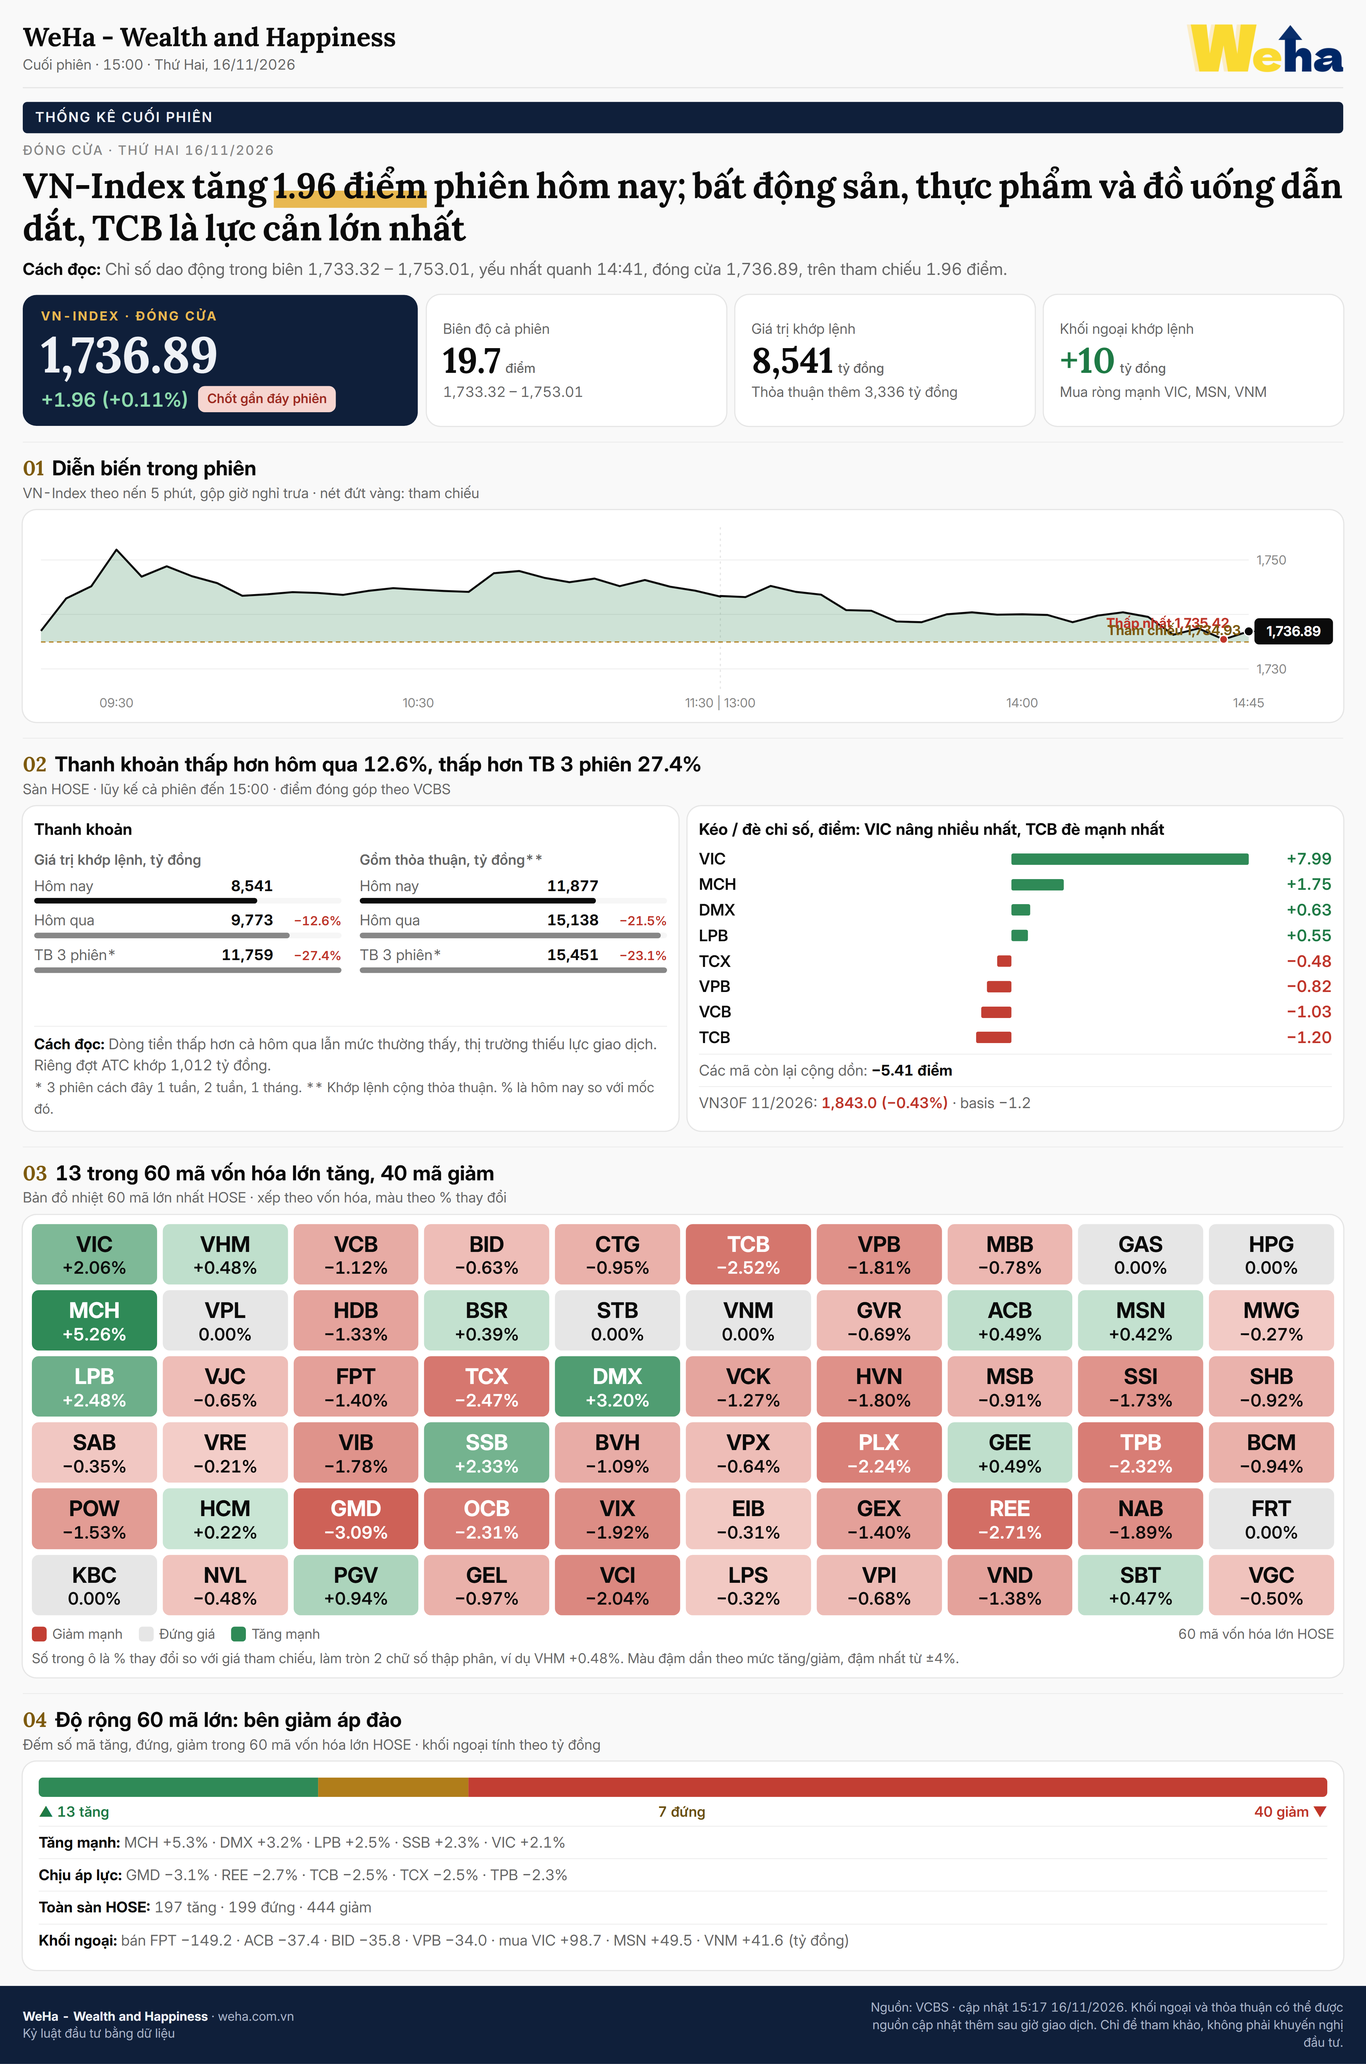
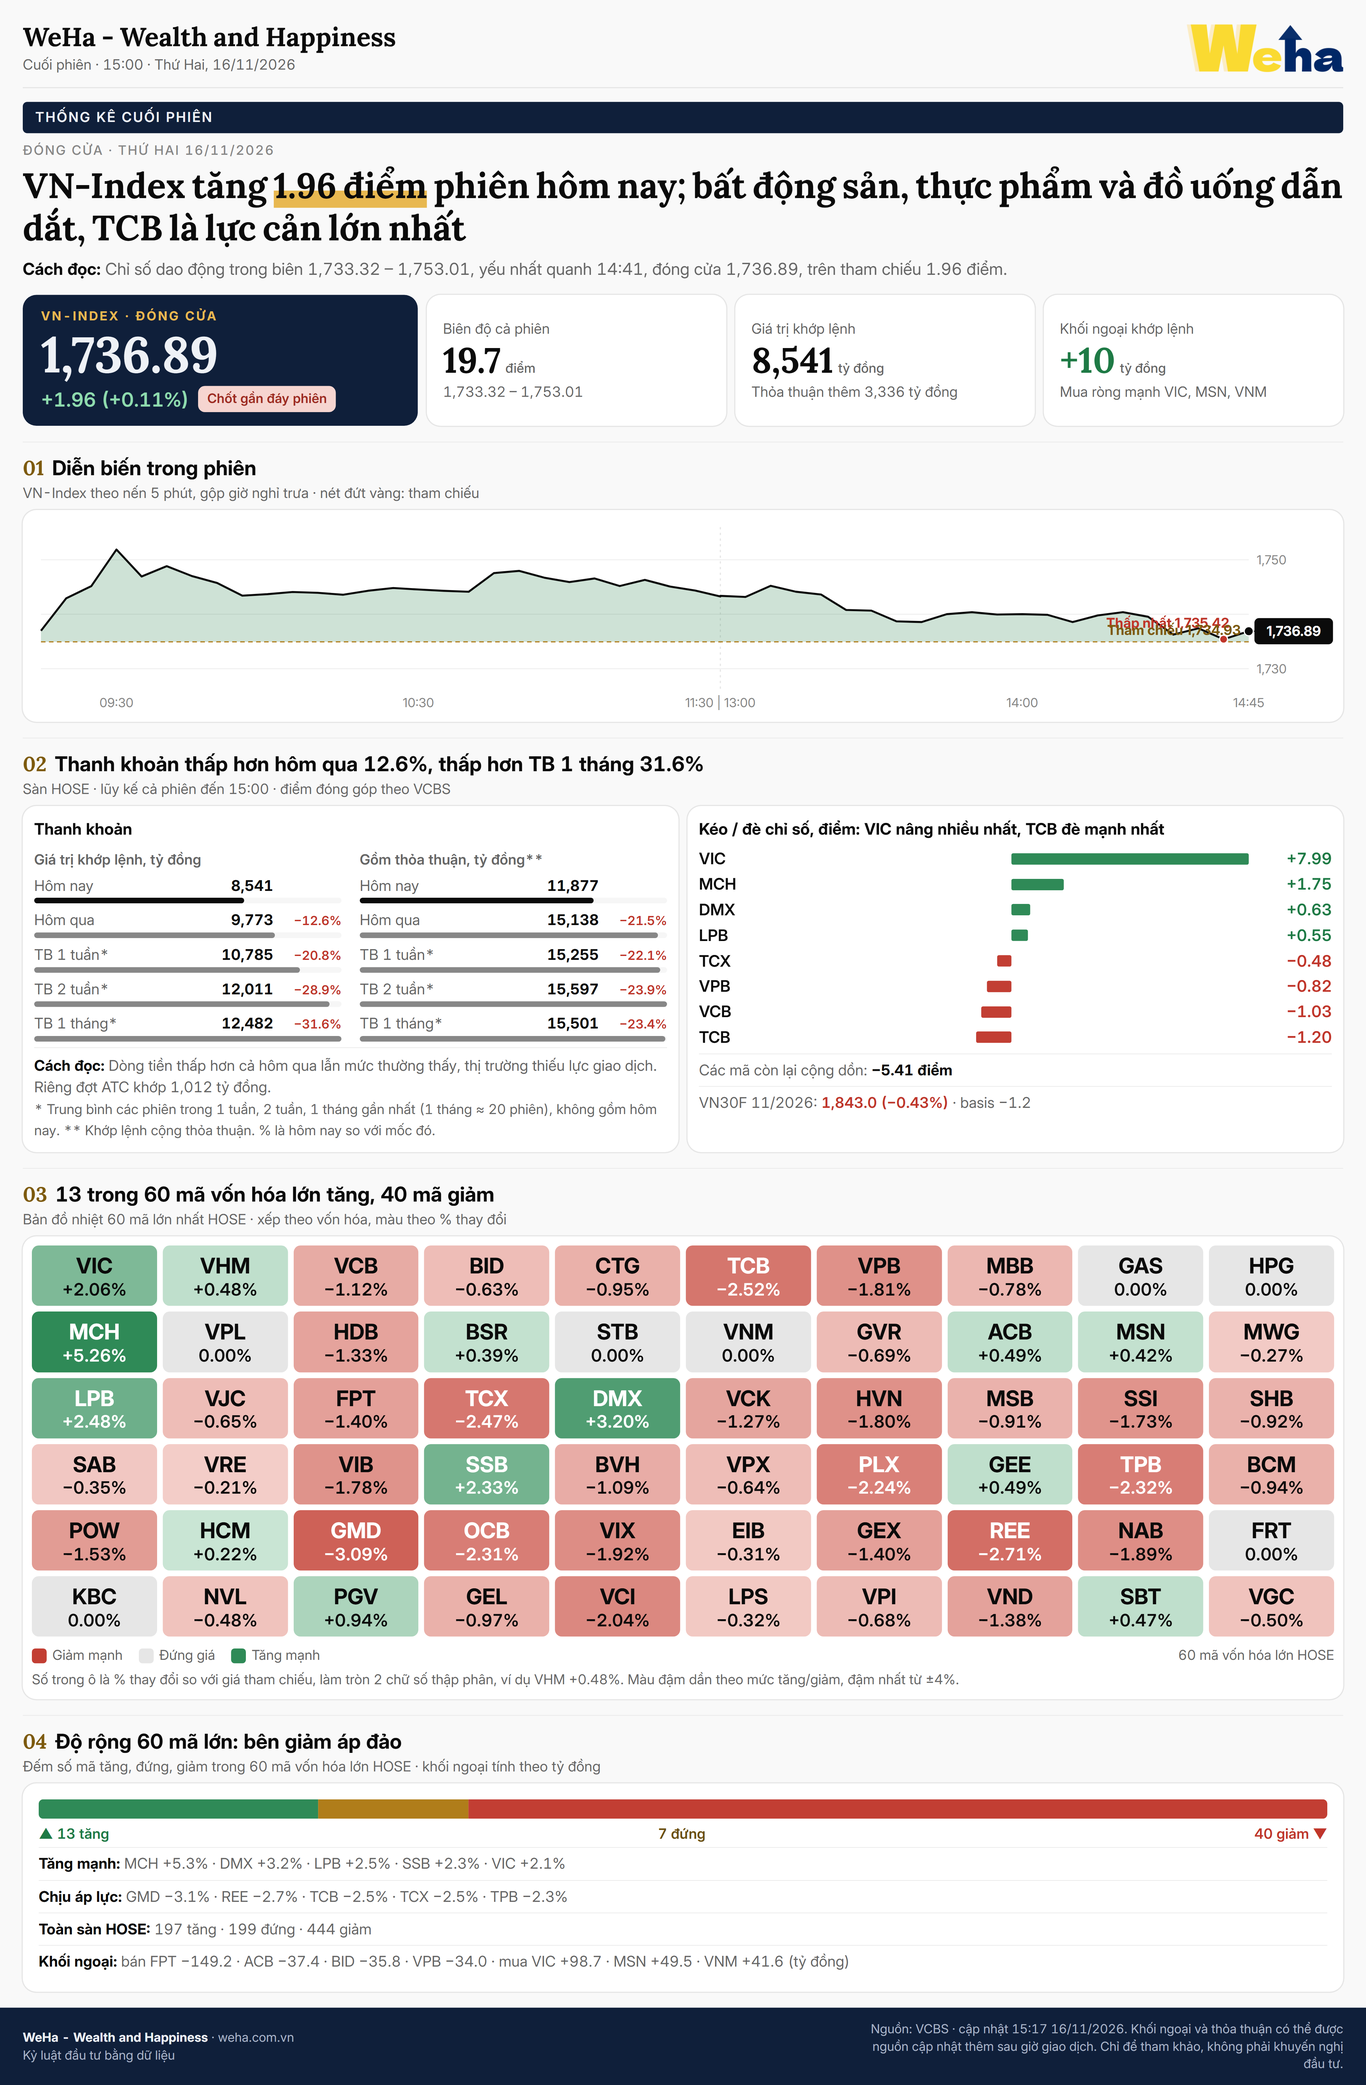
Thống kê giữa/cuối phiên: thay TB 3 phiên bằng TB 1 tuần, 2 tuần, 1 tháng
Ba mốc week1/week2/month của VCBS là trung bình các phiên trong 1 tuần,
2 tuần, 1 tháng gần nhất (không gồm hôm nay), không phải 3 phiên lẻ.
Đối chiếu 18/11: week1 = TB 12-17/11, week2 = TB 05-17/11.
Tiêu đề thanh khoản so với TB 1 tháng (~20 phiên).

diff --git a/thong-ke-cuoi-phien/2026-11-16/index.html b/thong-ke-cuoi-phien/2026-11-16/index.html
@@ -135,9 +135,9 @@ svg{display:block}
 <text x="2217.0" y="204.9" text-anchor="middle" class="lab" fill="#fff">1,736.89</text>
 <text x="2124" y="203.6" text-anchor="end" class="lab" fill="var(--gold-strong)">Tham chiếu 1,734.93</text>
 <text x="148.6" y="330" text-anchor="middle" class="ax">09:30</text><text x="679.1" y="330" text-anchor="middle" class="ax">10:30</text><text x="1209.6" y="330" text-anchor="middle" class="ax">11:30 | 13:00</text><text x="1740.1" y="330" text-anchor="middle" class="ax">14:00</text><text x="2138.0" y="330" text-anchor="middle" class="ax">14:45</text></svg></div>
-<h2 class="sh"><em>02</em>Thanh khoản thấp hơn hôm qua 12.6%, thấp hơn TB 3 phiên 27.4%</h2><p class="sub">Sàn HOSE · lũy kế cả phiên đến 15:00 · điểm đóng góp theo VCBS</p>
-<section class="two"><div class="card liq2"><div class="ct">Thanh khoản</div><div class="lrs"><div class="lr"><div class="ct2">Giá trị khớp lệnh, tỷ đồng</div><div class="cmp"><span class="cl">Hôm nay</span><span class="cv">8,541</span><span class="cc"></span><span class="cb"><i style="width:72.6%;background:var(--ink)"></i></span></div><div class="cmp"><span class="cl">Hôm qua</span><span class="cv">9,773</span><span class="cc"><span class="chg down">−12.6%</span></span><span class="cb"><i style="width:83.1%;background:var(--s4)"></i></span></div><div class="cmp"><span class="cl">TB 3 phiên*</span><span class="cv">11,759</span><span class="cc"><span class="chg down">−27.4%</span></span><span class="cb"><i style="width:100.0%;background:var(--s4)"></i></span></div></div><div class="lr"><div class="ct2">Gồm thỏa thuận, tỷ đồng**</div><div class="cmp"><span class="cl">Hôm nay</span><span class="cv">11,877</span><span class="cc"></span><span class="cb"><i style="width:76.9%;background:var(--ink)"></i></span></div><div class="cmp"><span class="cl">Hôm qua</span><span class="cv">15,138</span><span class="cc"><span class="chg down">−21.5%</span></span><span class="cb"><i style="width:98.0%;background:var(--s4)"></i></span></div><div class="cmp"><span class="cl">TB 3 phiên*</span><span class="cv">15,451</span><span class="cc"><span class="chg down">−23.1%</span></span><span class="cb"><i style="width:100.0%;background:var(--s4)"></i></span></div></div></div>
-<div class="how-to-read"><b>Cách đọc:</b> Dòng tiền thấp hơn cả hôm qua lẫn mức thường thấy, thị trường thiếu lực giao dịch. Riêng đợt ATC khớp 1,012 tỷ đồng.<br><span class="fn">* 3 phiên cách đây 1 tuần, 2 tuần, 1 tháng. ** Khớp lệnh cộng thỏa thuận. % là hôm nay so với mốc đó.</span></div></div>
+<h2 class="sh"><em>02</em>Thanh khoản thấp hơn hôm qua 12.6%, thấp hơn TB 1 tháng 31.6%</h2><p class="sub">Sàn HOSE · lũy kế cả phiên đến 15:00 · điểm đóng góp theo VCBS</p>
+<section class="two"><div class="card liq2"><div class="ct">Thanh khoản</div><div class="lrs"><div class="lr"><div class="ct2">Giá trị khớp lệnh, tỷ đồng</div><div class="cmp"><span class="cl">Hôm nay</span><span class="cv">8,541</span><span class="cc"></span><span class="cb"><i style="width:68.4%;background:var(--ink)"></i></span></div><div class="cmp"><span class="cl">Hôm qua</span><span class="cv">9,773</span><span class="cc"><span class="chg down">−12.6%</span></span><span class="cb"><i style="width:78.3%;background:var(--s4)"></i></span></div><div class="cmp"><span class="cl">TB 1 tuần*</span><span class="cv">10,785</span><span class="cc"><span class="chg down">−20.8%</span></span><span class="cb"><i style="width:86.4%;background:var(--s4)"></i></span></div><div class="cmp"><span class="cl">TB 2 tuần*</span><span class="cv">12,011</span><span class="cc"><span class="chg down">−28.9%</span></span><span class="cb"><i style="width:96.2%;background:var(--s4)"></i></span></div><div class="cmp"><span class="cl">TB 1 tháng*</span><span class="cv">12,482</span><span class="cc"><span class="chg down">−31.6%</span></span><span class="cb"><i style="width:100.0%;background:var(--s4)"></i></span></div></div><div class="lr"><div class="ct2">Gồm thỏa thuận, tỷ đồng**</div><div class="cmp"><span class="cl">Hôm nay</span><span class="cv">11,877</span><span class="cc"></span><span class="cb"><i style="width:76.1%;background:var(--ink)"></i></span></div><div class="cmp"><span class="cl">Hôm qua</span><span class="cv">15,138</span><span class="cc"><span class="chg down">−21.5%</span></span><span class="cb"><i style="width:97.1%;background:var(--s4)"></i></span></div><div class="cmp"><span class="cl">TB 1 tuần*</span><span class="cv">15,255</span><span class="cc"><span class="chg down">−22.1%</span></span><span class="cb"><i style="width:97.8%;background:var(--s4)"></i></span></div><div class="cmp"><span class="cl">TB 2 tuần*</span><span class="cv">15,597</span><span class="cc"><span class="chg down">−23.9%</span></span><span class="cb"><i style="width:100.0%;background:var(--s4)"></i></span></div><div class="cmp"><span class="cl">TB 1 tháng*</span><span class="cv">15,501</span><span class="cc"><span class="chg down">−23.4%</span></span><span class="cb"><i style="width:99.4%;background:var(--s4)"></i></span></div></div></div>
+<div class="how-to-read"><b>Cách đọc:</b> Dòng tiền thấp hơn cả hôm qua lẫn mức thường thấy, thị trường thiếu lực giao dịch. Riêng đợt ATC khớp 1,012 tỷ đồng.<br><span class="fn">* Trung bình các phiên trong 1 tuần, 2 tuần, 1 tháng gần nhất (1 tháng ≈ 20 phiên), không gồm hôm nay. ** Khớp lệnh cộng thỏa thuận. % là hôm nay so với mốc đó.</span></div></div>
 <div class="card"><div class="ct">Kéo / đè chỉ số, điểm: VIC nâng nhiều nhất, TCB đè mạnh nhất</div><div class="ctr"><span class="sy">VIC</span><span class="tr"><i style="left:50%;width:46.0%;background:var(--up-bar)"></i></span><span class="chg up nv">+7.99</span></div><div class="ctr"><span class="sy">MCH</span><span class="tr"><i style="left:50%;width:10.1%;background:var(--up-bar)"></i></span><span class="chg up nv">+1.75</span></div><div class="ctr"><span class="sy">DMX</span><span class="tr"><i style="left:50%;width:3.6%;background:var(--up-bar)"></i></span><span class="chg up nv">+0.63</span></div><div class="ctr"><span class="sy">LPB</span><span class="tr"><i style="left:50%;width:3.2%;background:var(--up-bar)"></i></span><span class="chg up nv">+0.55</span></div><div class="ctr"><span class="sy">TCX</span><span class="tr"><i style="right:50%;width:2.8%;background:var(--down-bar)"></i></span><span class="chg down nv">−0.48</span></div><div class="ctr"><span class="sy">VPB</span><span class="tr"><i style="right:50%;width:4.7%;background:var(--down-bar)"></i></span><span class="chg down nv">−0.82</span></div><div class="ctr"><span class="sy">VCB</span><span class="tr"><i style="right:50%;width:5.9%;background:var(--down-bar)"></i></span><span class="chg down nv">−1.03</span></div><div class="ctr"><span class="sy">TCB</span><span class="tr"><i style="right:50%;width:6.9%;background:var(--down-bar)"></i></span><span class="chg down nv">−1.20</span></div>
 <p class="ln rest">Các mã còn lại cộng dồn: <b>−5.41 điểm</b></p>
 <p class="ln">VN30F 11/2026: <b class="chg down">1,843.0 (−0.43%)</b> · basis −1.2</p></div></section>

diff --git a/thong-ke-giua-phien/build.py b/thong-ke-giua-phien/build.py
@@ -278,7 +278,7 @@ def render(day):
     dow = ["Thứ Hai", "Thứ Ba", "Thứ Tư", "Thứ Năm", "Thứ Sáu", "Thứ Bảy", "Chủ Nhật"][d.weekday()]
     dstr = d.strftime("%d/%m/%Y")
     cur, prev = liq["curr"][-1], liq["prev"][-1]
-    avg3 = (liq["week1"][-1] + liq["week2"][-1] + liq["month"][-1]) / 3
+    avg3 = liq["month"][-1]  # VCBS monthVal: TB các phiên trong 1 tháng gần nhất (~20 phiên), cùng giờ
     kl, klp, kl5, kl20, n20 = morning(data, day)
     vals = [pct(q, s) for g in uni.values() for s in g]
     up, dn = sum(v > 0 for v in vals), sum(v < 0 for v in vals)
@@ -310,10 +310,10 @@ def render(day):
     def word(x):
         return "cao hơn" if x > 0 else "thấp hơn"
 
-    liq_title = f'Thanh khoản {word(vs_p)} hôm qua {vn(abs(vs_p),1)}%, {word(vs_a)} TB 3 phiên {vn(abs(vs_a),1)}%'
+    liq_title = f'Thanh khoản {word(vs_p)} hôm qua {vn(abs(vs_p),1)}%, {word(vs_a)} TB 1 tháng {vn(abs(vs_a),1)}%'
     if vs_p > 0 and vs_a < 0 and kl > kl20:
         liq_read = (f"Dòng tiền ấm lên so với hôm qua. Khối lượng vượt TB {n20} phiên nhưng giá trị khớp lệnh vẫn dưới "
-                    "3 phiên đối chiếu, nên chưa phải tín hiệu bùng nổ; cần phiên chiều xác nhận.")
+                    "mức trung bình 1 tháng, nên chưa phải tín hiệu bùng nổ; cần phiên chiều xác nhận.")
     elif vs_p > 0 and vs_a < 0:
         liq_read = "Dòng tiền đã cải thiện so với hôm qua nhưng chưa vượt mức thường thấy, cần theo dõi thêm phiên chiều."
     elif vs_p > 0:
@@ -347,8 +347,8 @@ def render(day):
 <h2 class="sh"><em>01</em>Diễn biến trong phiên</h2><p class="sub">VN-Index theo nến 5 phút · nét đứt: tham chiếu</p>
 <div class="card">{price_chart(data)}</div>
 <h2 class="sh"><em>02</em>{liq_title}</h2><p class="sub">Sàn HOSE · so sánh cùng thời điểm {data["time"]} · điểm đóng góp theo VCBS</p>
-<section class="two"><div class="card liq2"><div class="ct">Thanh khoản</div><div class="lrs"><div class="lr"><div class="ct2">Giá trị khớp lệnh, tỷ đồng</div>{cmp_rows([("Hôm nay", cur, None), ("Hôm qua", prev, vs_p), ("TB 3 phiên*", avg3, vs_a)])}</div><div class="lr"><div class="ct2">KL phiên sáng, triệu cp**</div>{cmp_rows([("Hôm nay", kl, None), ("Hôm qua", klp, (kl/klp-1)*100), ("TB 5 phiên", kl5, (kl/kl5-1)*100), (f"TB {n20} phiên", kl20, (kl/kl20-1)*100)])}</div></div>
-<div class="how-to-read"><b>Cách đọc:</b> {liq_read}<br><span class="fn">* Cùng giờ của 3 phiên cách đây 1 tuần, 2 tuần, 1 tháng. ** Gồm thỏa thuận. % là hôm nay so với mốc đó.</span></div></div>
+<section class="two"><div class="card liq2"><div class="ct">Thanh khoản</div><div class="lrs"><div class="lr"><div class="ct2">Giá trị khớp lệnh, tỷ đồng</div>{cmp_rows([("Hôm nay", cur, None), ("Hôm qua", prev, vs_p), ("TB 1 tuần*", liq["week1"][-1], (cur/liq["week1"][-1]-1)*100), ("TB 2 tuần*", liq["week2"][-1], (cur/liq["week2"][-1]-1)*100), ("TB 1 tháng*", avg3, vs_a)])}</div><div class="lr"><div class="ct2">KL phiên sáng, triệu cp**</div>{cmp_rows([("Hôm nay", kl, None), ("Hôm qua", klp, (kl/klp-1)*100), ("TB 5 phiên", kl5, (kl/kl5-1)*100), (f"TB {n20} phiên", kl20, (kl/kl20-1)*100)])}</div></div>
+<div class="how-to-read"><b>Cách đọc:</b> {liq_read}<br><span class="fn">* Trung bình cùng giờ của các phiên trong 1 tuần, 2 tuần, 1 tháng gần nhất (1 tháng ≈ 20 phiên), không gồm hôm nay. ** Gồm thỏa thuận. % là hôm nay so với mốc đó.</span></div></div>
 <div class="card"><div class="ct">Kéo / đè chỉ số, điểm: {lift} nâng nhiều nhất, {drag} đè mạnh nhất</div>{contrib_chart(ct)}
 <p class="ln rest">Các mã còn lại cộng dồn: <b>{vn(rest,2,True)} điểm</b></p>
 <p class="ln">{dv["name"]}: <b class="chg {cls(dvc)}">{vn(dv["price"],1)} ({vn(dvc,2,True)}%)</b> · basis {vn(basis,1,True)}</p></div></section>
@@ -364,7 +364,7 @@ def render(day):
 </main></body></html>'''
     out = ROOT / day / "index.html"
     out.write_text(html, "utf8")
-    print(f"KL sáng {kl:.1f} | hôm qua {klp:.1f} | TB5 {kl5:.1f} | TB{n20} {kl20:.1f} | độ rộng {up}/{fl}/{dn} | còn lại {rest:.2f} | TB3 {avg3:.0f}")
+    print(f"KL sáng {kl:.1f} | hôm qua {klp:.1f} | TB5 {kl5:.1f} | TB{n20} {kl20:.1f} | độ rộng {up}/{fl}/{dn} | còn lại {rest:.2f} | TB1T {avg3:.0f}")
     return out
 
 

diff --git a/thong-ke-cuoi-phien/build.py b/thong-ke-cuoi-phien/build.py
@@ -267,9 +267,9 @@ def render(day):
     dow = ["Thứ Hai", "Thứ Ba", "Thứ Tư", "Thứ Năm", "Thứ Sáu", "Thứ Bảy", "Chủ Nhật"][d.weekday()]
     dstr = d.strftime("%d/%m/%Y")
     cur, prev = liq["curr"][-1], liq["prev"][-1]
-    avg3 = (liq["week1"][-1] + liq["week2"][-1] + liq["month"][-1]) / 3
+    avg3 = liq["month"][-1]  # VCBS monthVal: TB các phiên trong 1 tháng gần nhất (~20 phiên), cùng giờ
     tot = liq["total"]
-    tavg3 = (tot["week1"] + tot["week2"] + tot["month"]) / 3
+    tavg3 = tot["month"]
     atc = liq["curr"][-1] - liq["curr"][51]
     vals = [pct(q, s) for g in uni.values() for s in g]
     up, dn = sum(v > 0 for v in vals), sum(v < 0 for v in vals)
@@ -305,9 +305,9 @@ def render(day):
     def word(x):
         return "cao hơn" if x > 0 else "thấp hơn"
 
-    liq_title = f'Thanh khoản {word(vs_p)} hôm qua {vn(abs(vs_p),1)}%, {word(vs_a)} TB 3 phiên {vn(abs(vs_a),1)}%'
+    liq_title = f'Thanh khoản {word(vs_p)} hôm qua {vn(abs(vs_p),1)}%, {word(vs_a)} TB 1 tháng {vn(abs(vs_a),1)}%'
     if vs_p > 0 and vs_a < 0:
-        liq_read = "Dòng tiền cả phiên cải thiện so với hôm qua nhưng vẫn dưới mức thường thấy của 3 phiên đối chiếu."
+        liq_read = "Dòng tiền cả phiên cải thiện so với hôm qua nhưng vẫn dưới mức trung bình 1 tháng."
     elif vs_p > 0:
         liq_read = "Dòng tiền cả phiên cao hơn cả hôm qua lẫn mức thường thấy."
     elif vs_a > 0:
@@ -342,8 +342,8 @@ def render(day):
 <h2 class="sh"><em>01</em>Diễn biến trong phiên</h2><p class="sub">VN-Index theo nến 5 phút, gộp giờ nghỉ trưa · nét đứt vàng: tham chiếu</p>
 <div class="card">{price_chart(data)}</div>
 <h2 class="sh"><em>02</em>{liq_title}</h2><p class="sub">Sàn HOSE · lũy kế cả phiên đến 15:00 · điểm đóng góp theo VCBS</p>
-<section class="two"><div class="card liq2"><div class="ct">Thanh khoản</div><div class="lrs"><div class="lr"><div class="ct2">Giá trị khớp lệnh, tỷ đồng</div>{cmp_rows([("Hôm nay", cur, None), ("Hôm qua", prev, vs_p), ("TB 3 phiên*", avg3, vs_a)])}</div><div class="lr"><div class="ct2">Gồm thỏa thuận, tỷ đồng**</div>{cmp_rows([("Hôm nay", tot["curr"], None), ("Hôm qua", tot["prev"], (tot["curr"]/tot["prev"]-1)*100), ("TB 3 phiên*", tavg3, (tot["curr"]/tavg3-1)*100)])}</div></div>
-<div class="how-to-read"><b>Cách đọc:</b> {liq_read}<br><span class="fn">* 3 phiên cách đây 1 tuần, 2 tuần, 1 tháng. ** Khớp lệnh cộng thỏa thuận. % là hôm nay so với mốc đó.</span></div></div>
+<section class="two"><div class="card liq2"><div class="ct">Thanh khoản</div><div class="lrs"><div class="lr"><div class="ct2">Giá trị khớp lệnh, tỷ đồng</div>{cmp_rows([("Hôm nay", cur, None), ("Hôm qua", prev, vs_p), ("TB 1 tuần*", liq["week1"][-1], (cur/liq["week1"][-1]-1)*100), ("TB 2 tuần*", liq["week2"][-1], (cur/liq["week2"][-1]-1)*100), ("TB 1 tháng*", avg3, vs_a)])}</div><div class="lr"><div class="ct2">Gồm thỏa thuận, tỷ đồng**</div>{cmp_rows([("Hôm nay", tot["curr"], None), ("Hôm qua", tot["prev"], (tot["curr"]/tot["prev"]-1)*100), ("TB 1 tuần*", tot["week1"], (tot["curr"]/tot["week1"]-1)*100), ("TB 2 tuần*", tot["week2"], (tot["curr"]/tot["week2"]-1)*100), ("TB 1 tháng*", tavg3, (tot["curr"]/tavg3-1)*100)])}</div></div>
+<div class="how-to-read"><b>Cách đọc:</b> {liq_read}<br><span class="fn">* Trung bình các phiên trong 1 tuần, 2 tuần, 1 tháng gần nhất (1 tháng ≈ 20 phiên), không gồm hôm nay. ** Khớp lệnh cộng thỏa thuận. % là hôm nay so với mốc đó.</span></div></div>
 <div class="card"><div class="ct">Kéo / đè chỉ số, điểm: {lift} nâng nhiều nhất, {drag} đè mạnh nhất</div>{contrib_chart(ct)}
 <p class="ln rest">Các mã còn lại cộng dồn: <b>{vn(rest,2,True)} điểm</b></p>
 <p class="ln">{dv["name"]}: <b class="chg {cls(dvc)}">{vn(dv["price"],1)} ({vn(dvc,2,True)}%)</b> · basis {vn(basis,1,True)}</p></div></section>
@@ -359,7 +359,7 @@ def render(day):
 </main></body></html>'''
     out = ROOT / day / "index.html"
     out.write_text(html, "utf8")
-    print(f"GTGD gồm TT {tot['curr']} | ATC {atc} | độ rộng {up}/{fl}/{dn} | còn lại {rest:.2f} | TB3 {avg3:.0f}")
+    print(f"GTGD gồm TT {tot['curr']} | ATC {atc} | độ rộng {up}/{fl}/{dn} | còn lại {rest:.2f} | TB1T {avg3:.0f}")
     return out
 
 
